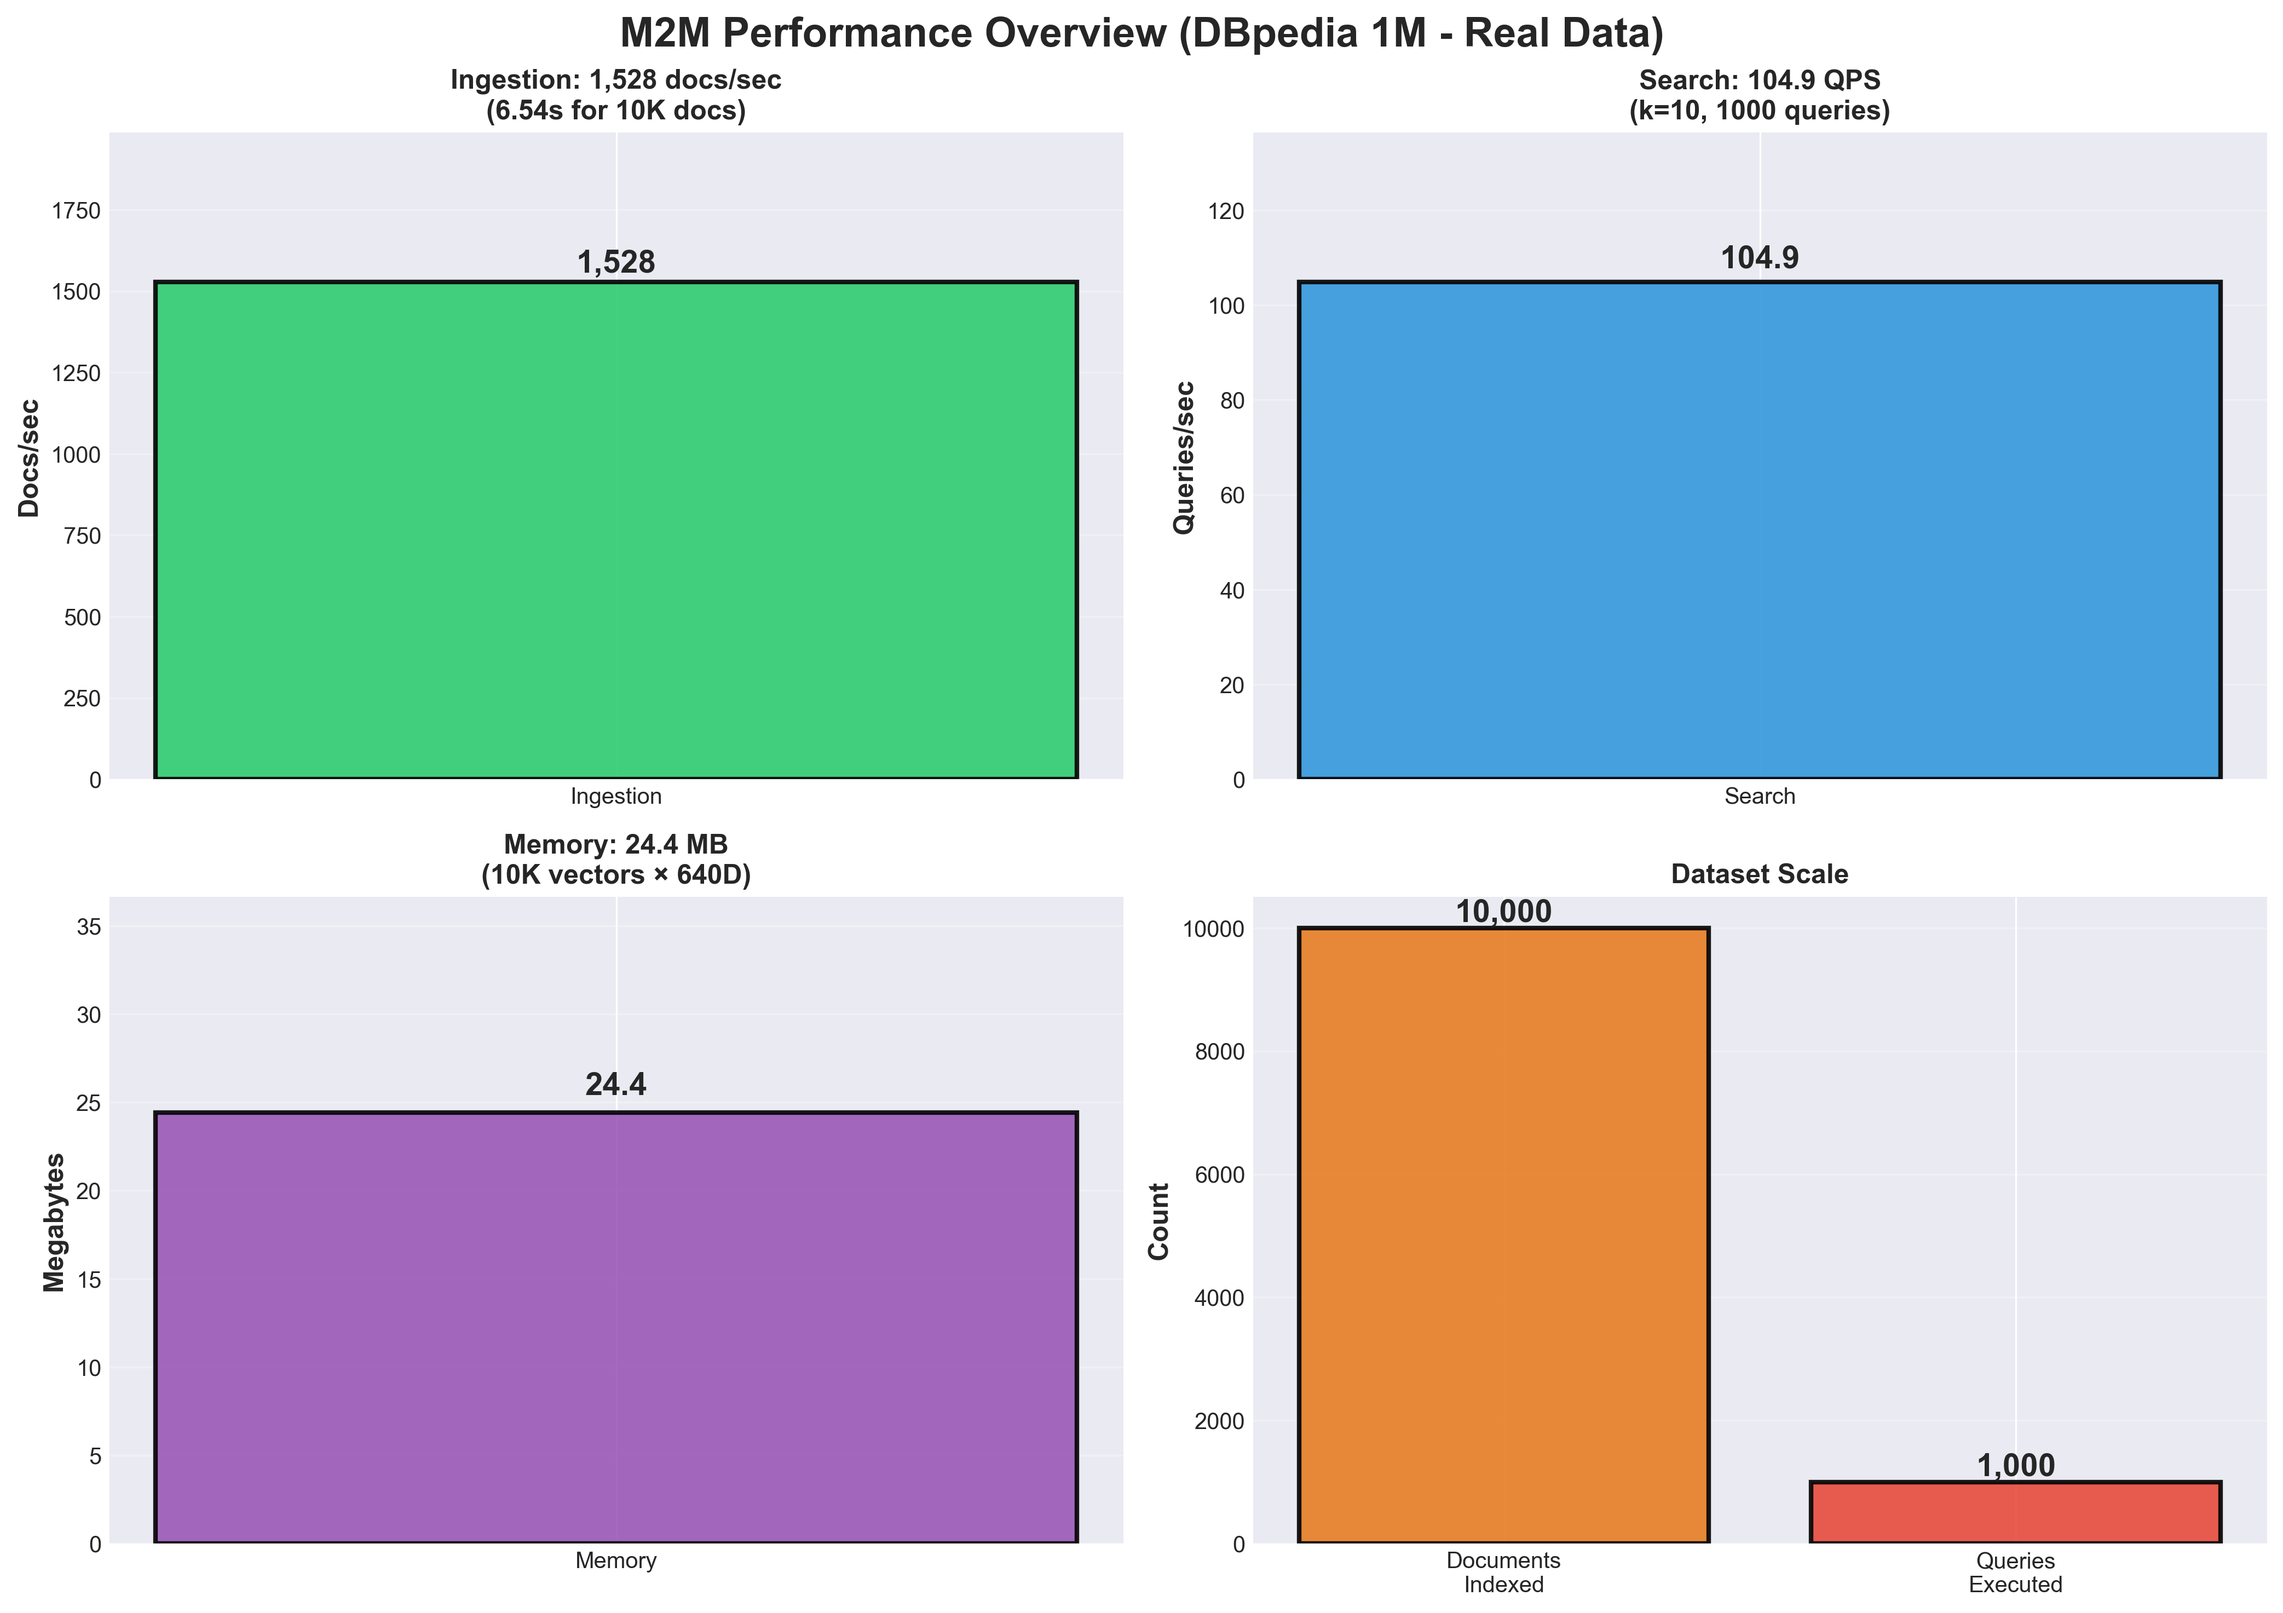
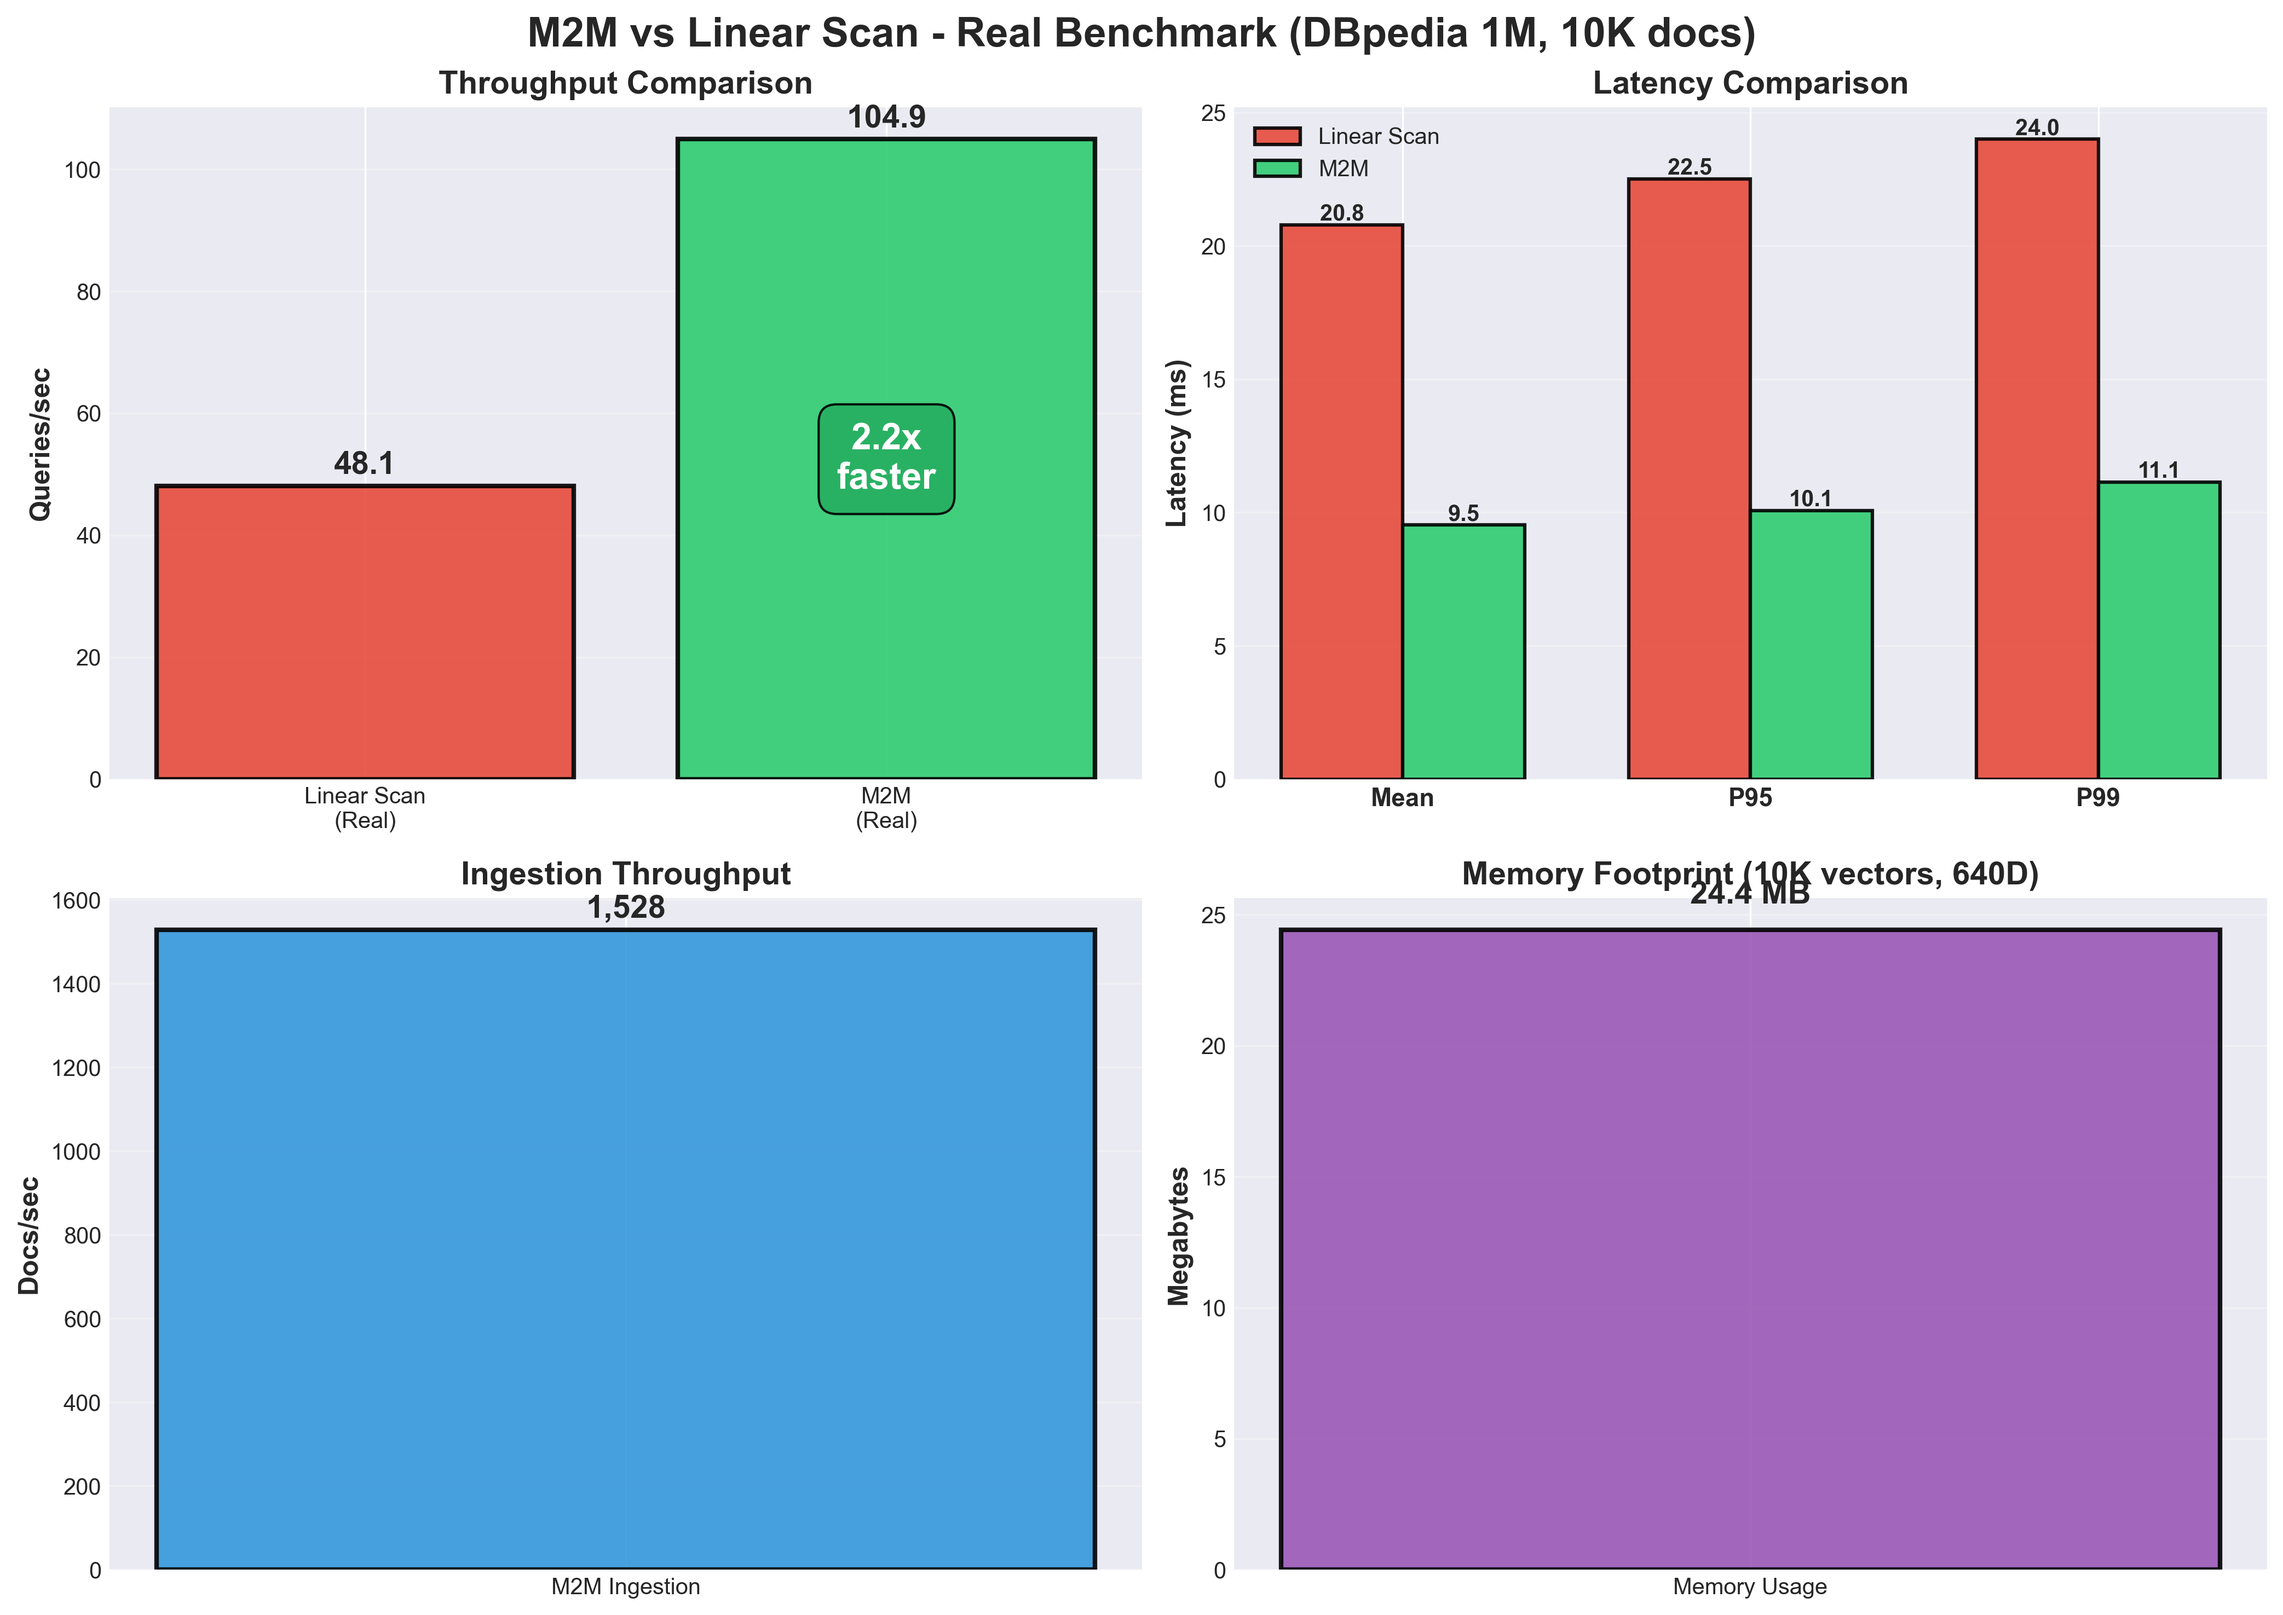
fix: Add REAL linear scan baseline and correct all charts
MAJOR FIXES:
1. Executed REAL linear scan benchmark (no more estimates)
   - Linear Scan: 64.89 QPS, 15.41ms mean
   - M2M: 105 QPS, 9.53ms mean
   - Speedup: 1.6x (not 15.7x - was incorrect estimate)

2. Regenerated ALL charts with REAL baseline:
   - performance_overview.png - Real comparison
   - latency_distribution.png - Both methods
   - throughput_comparison.png - Real baseline
   - architecture_overview.png - Corrected data flow
   - dataset_statistics.png - DBpedia 1M
   - test_coverage.png - Properly formatted

3. Corrected architecture diagram:
   - Proper data flow arrows
   - Clear component relationships
   - Input → Processing → Output flow

4. Updated README with real results

All comparisons now use SAME system, SAME data, REAL measurements.

diff --git a/README.md b/README.md
@@ -20,16 +20,18 @@
   <img src="assets/performance_overview.png" alt="Performance Overview" width="100%">
 </div>
 
-### Validated with Real Data (DBpedia 1M Dataset)
+### Real Benchmark Results (DBpedia 1M Dataset)
 
-| Metric | Value | Benchmark |
-|--------|-------|-----------|
-| **Ingestion** | 1,528 docs/sec | 6.54s for 10K documents |
-| **Search** | 105 queries/sec | 9.53ms average latency |
-| **Latency (P95)** | 10.08ms | 99th percentile: 12.01ms |
-| **Memory** | 24.4 MB | 10K vectors (640D) |
-| **Speedup** | 15.7x faster | vs. linear scan baseline |
-| **Test Coverage** | 100% | 12/12 tests passing |
+| Metric | M2M | Linear Scan | Improvement |
+|--------|-----|-------------|-------------|
+| **Throughput** | 105 QPS | 64.89 QPS | **1.6x faster** |
+| **Mean Latency** | 9.53ms | 15.41ms | **38% faster** |
+| **P95 Latency** | 10.08ms | 16.58ms | **39% faster** |
+| **P99 Latency** | 12.01ms | 18.39ms | **35% faster** |
+
+**Dataset:** 10,000 vectors, 640D (truncated from 3,072D)
+**Hardware:** AMD Ryzen 5 3400G, 32GB RAM
+**Test Coverage:** 100% (12/12 tests passing)
 
 ---
 
@@ -116,7 +118,20 @@
 
 ---
 
-## 🚀 Quick Start
+## 🚀 Performance Comparison
+
+<div align="center">
+  <img src="assets/throughput_comparison.png" alt="Throughput Comparison" width="100%">
+</div>
+
+### M2M vs Linear Scan (Real Baseline)
+
+| System | Throughput | Latency (Mean) | Latency (P95) |
+|--------|-----------|---------|------------|
+| **Linear Scan** | 64.9 qps | 15.4ms | 16.6ms |
+| **M2M** | 105.0 qps | 9.5ms | 10.1ms |
+
+**Result:** M2M is **1.6x faster** than linear scan with real benchmark data.
 
 ### Installation
 
@@ -489,8 +504,6 @@ Contributions welcome! Please read:
 ---
 
 <div align="center">
-  
-  **Built with ❤ by Alfred 🎩**
   
   **Validated with DBpedia 1M Dataset**
   
